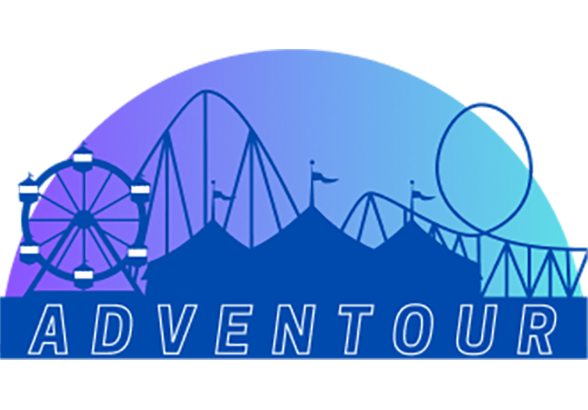
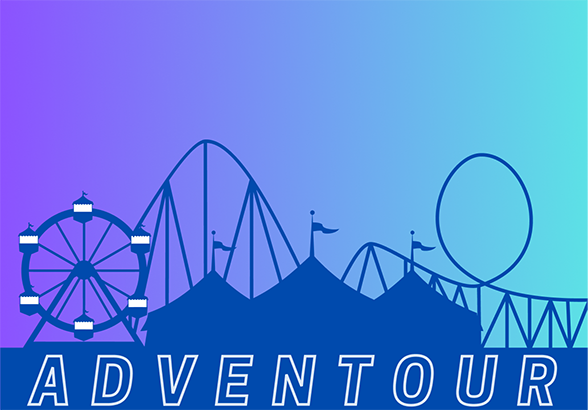
card polish and some css cleanup

diff --git a/src/components/pages/Home.tsx b/src/components/pages/Home.tsx
@@ -5,7 +5,7 @@ import Nav from "../ui/Nav";
 import { Outlet, useLocation } from "react-router-dom";
 import { useEffect } from "react";
 
-export default function Hom() {
+export default function Home() {
     
     const location = useLocation();
 
@@ -27,9 +27,9 @@ export default function Hom() {
                     <HoverName classyName="w-fit text-6xl md:text-9xl tracking-wide self-center place-self-start"/>
                     <h4 className="text-xl md:text-4xl tracking-widest self-end place-self-start">&ensp;she/her</h4>
                 </div>
-                <IAmA wrapper="h2" classyName="pt-6 md:pt-10 text-3xl md:text-5xl w-max"/>
+                <IAmA wrapper="h2" classyName="pt-6 md:pt-10 text-3xl md:text-5xl w-max text-[#cdc7f8]"/>
                 <Socials classyName="mt-14 md:mt-18 md:pt-6 shrink-1 w-2/3 place-content-center" />
-                <Nav classyName="border border-[#b3abe2]/50 hover:border-[#b3abe2]/10 border-solid py-0.5 px-10 rounded-full tracking-wider mt-9 md:mt-7 text-2xl md:text-4xl" />
+                <Nav classyName="border border-[#b3abe2]/50 hover:border-[#b3abe2]/10 border-solid py-0.5 px-10 rounded-full tracking-wider mt-9 md:mt-7 text-2xl md:text-4xl text-[#D2CDF3]" />
             </section>
             <Outlet />
         </>

diff --git a/src/components/ui/Project.tsx b/src/components/ui/Project.tsx
@@ -34,7 +34,9 @@ export default function Project({ project, version }: Props) {
     
     return(
         <motion.a href={project.links[0].url} target="_blank" ref={scope} onHoverStart={handleHoverStart} onHoverEnd={handleHoverEnd} whileHover={boop} whileFocus={boop} whileTap={beegBoop} className="project block relative h-fit break-inside-avoid-column p-3 mb-6 md:mb-8 rounded-2xl shadow-[rgba(254, 236, 238, 0.3)] shadow-md">
-            <img className="w-full h-full object-cover mx-auto rounded-xl" src={`/thumbnails/${project.image}`} alt={project.image_alt} draggable="false" />
+            <div className="-mt-3 -mx-3 rounded-t-2xl overflow-hidden">
+            <img className="w-full h-auto object-cover" src={`/thumbnails/${project.image}`} alt={project.image_alt} draggable="false" />
+            </div>
             <h2 className="project tracking-wide font-bold text-center text-2xl md:text-2xl py-2">{project.title}</h2>
             { project.feature_text ? <div className="wip -mx-3 mb-3 text-center py-0.5 px-1 tracking-wider bg-clip-border">{project.feature_text}</div> : ""}
             <p className="mx-auto px-2 pb-6 text-justify lg:text-center">

diff --git a/src/components/ui/Nav.tsx b/src/components/ui/Nav.tsx
@@ -28,10 +28,10 @@ export default function Nav({ classyName }: Props) {
 
     return(
       <div className="flex flex-row gap-4 md:gap-5">
-        <motion.a ref={scope} href="https://garden.dnmurillo.com" onHoverStart={handleHoverStart} onHoverEnd={handleHoverEnd} whileHover={boop} whileFocus={boop} whileTap={beegBoop} className={classyName} id="projects-link">
+        <motion.a ref={scope} href="https://garden.dnmurillo.com" onHoverStart={handleHoverStart} onHoverEnd={handleHoverEnd} whileHover={boop} whileFocus={boop} whileTap={beegBoop} className={classyName}>
             garden
         </motion.a>
-        <motion.a ref={scope} href="projects" onHoverStart={handleHoverStart} onHoverEnd={handleHoverEnd} whileHover={boop} whileFocus={boop} whileTap={beegBoop} className={classyName} id="projects-link">
+        <motion.a ref={scope} href="projects" onHoverStart={handleHoverStart} onHoverEnd={handleHoverEnd} whileHover={boop} whileFocus={boop} whileTap={beegBoop} className={classyName}>
             projects
         </motion.a>
       </div>

diff --git a/src/main.css b/src/main.css
@@ -25,7 +25,6 @@
 @layer base {
   body {
     font-family: 'Text Me One', sans-serif;
-    background: linear-gradient(180deg, rgba(45,18,99,1) 0%, rgba(79,35,103,1) 100%);
   }
   
   h1 {
@@ -44,14 +43,12 @@
     color: #BEB7F2;
   }
 
-  #projects-link {
-    color: #D2CDF3;
+  footer {
+    color: #FED5C2;
   }
+}
 
-  .typewriter-effect {
-    color: #cdc7f8;
-  }
-
+@layer components {
   .projects {
     font-family: 'Text Me One', sans-serif;
     color: #feecee;
@@ -76,9 +73,5 @@
 
   .wip {
     background-color: #FECCC6;
-  }
-
-  footer {
-    color: #FED5C2;
   }
 }

diff --git a/src/components/ui/IAmA.tsx b/src/components/ui/IAmA.tsx
@@ -13,7 +13,7 @@ export default function IAmA({ wrapper, classyName }: Props) {
     return(
         <>
             <div className="sr-only">
-                I'm a Web Developer, Writer, and Artist
+                I'm a Developer, Writer, and Artist
             </div>
             <TypeAnimation
                 aria-hidden="true"
